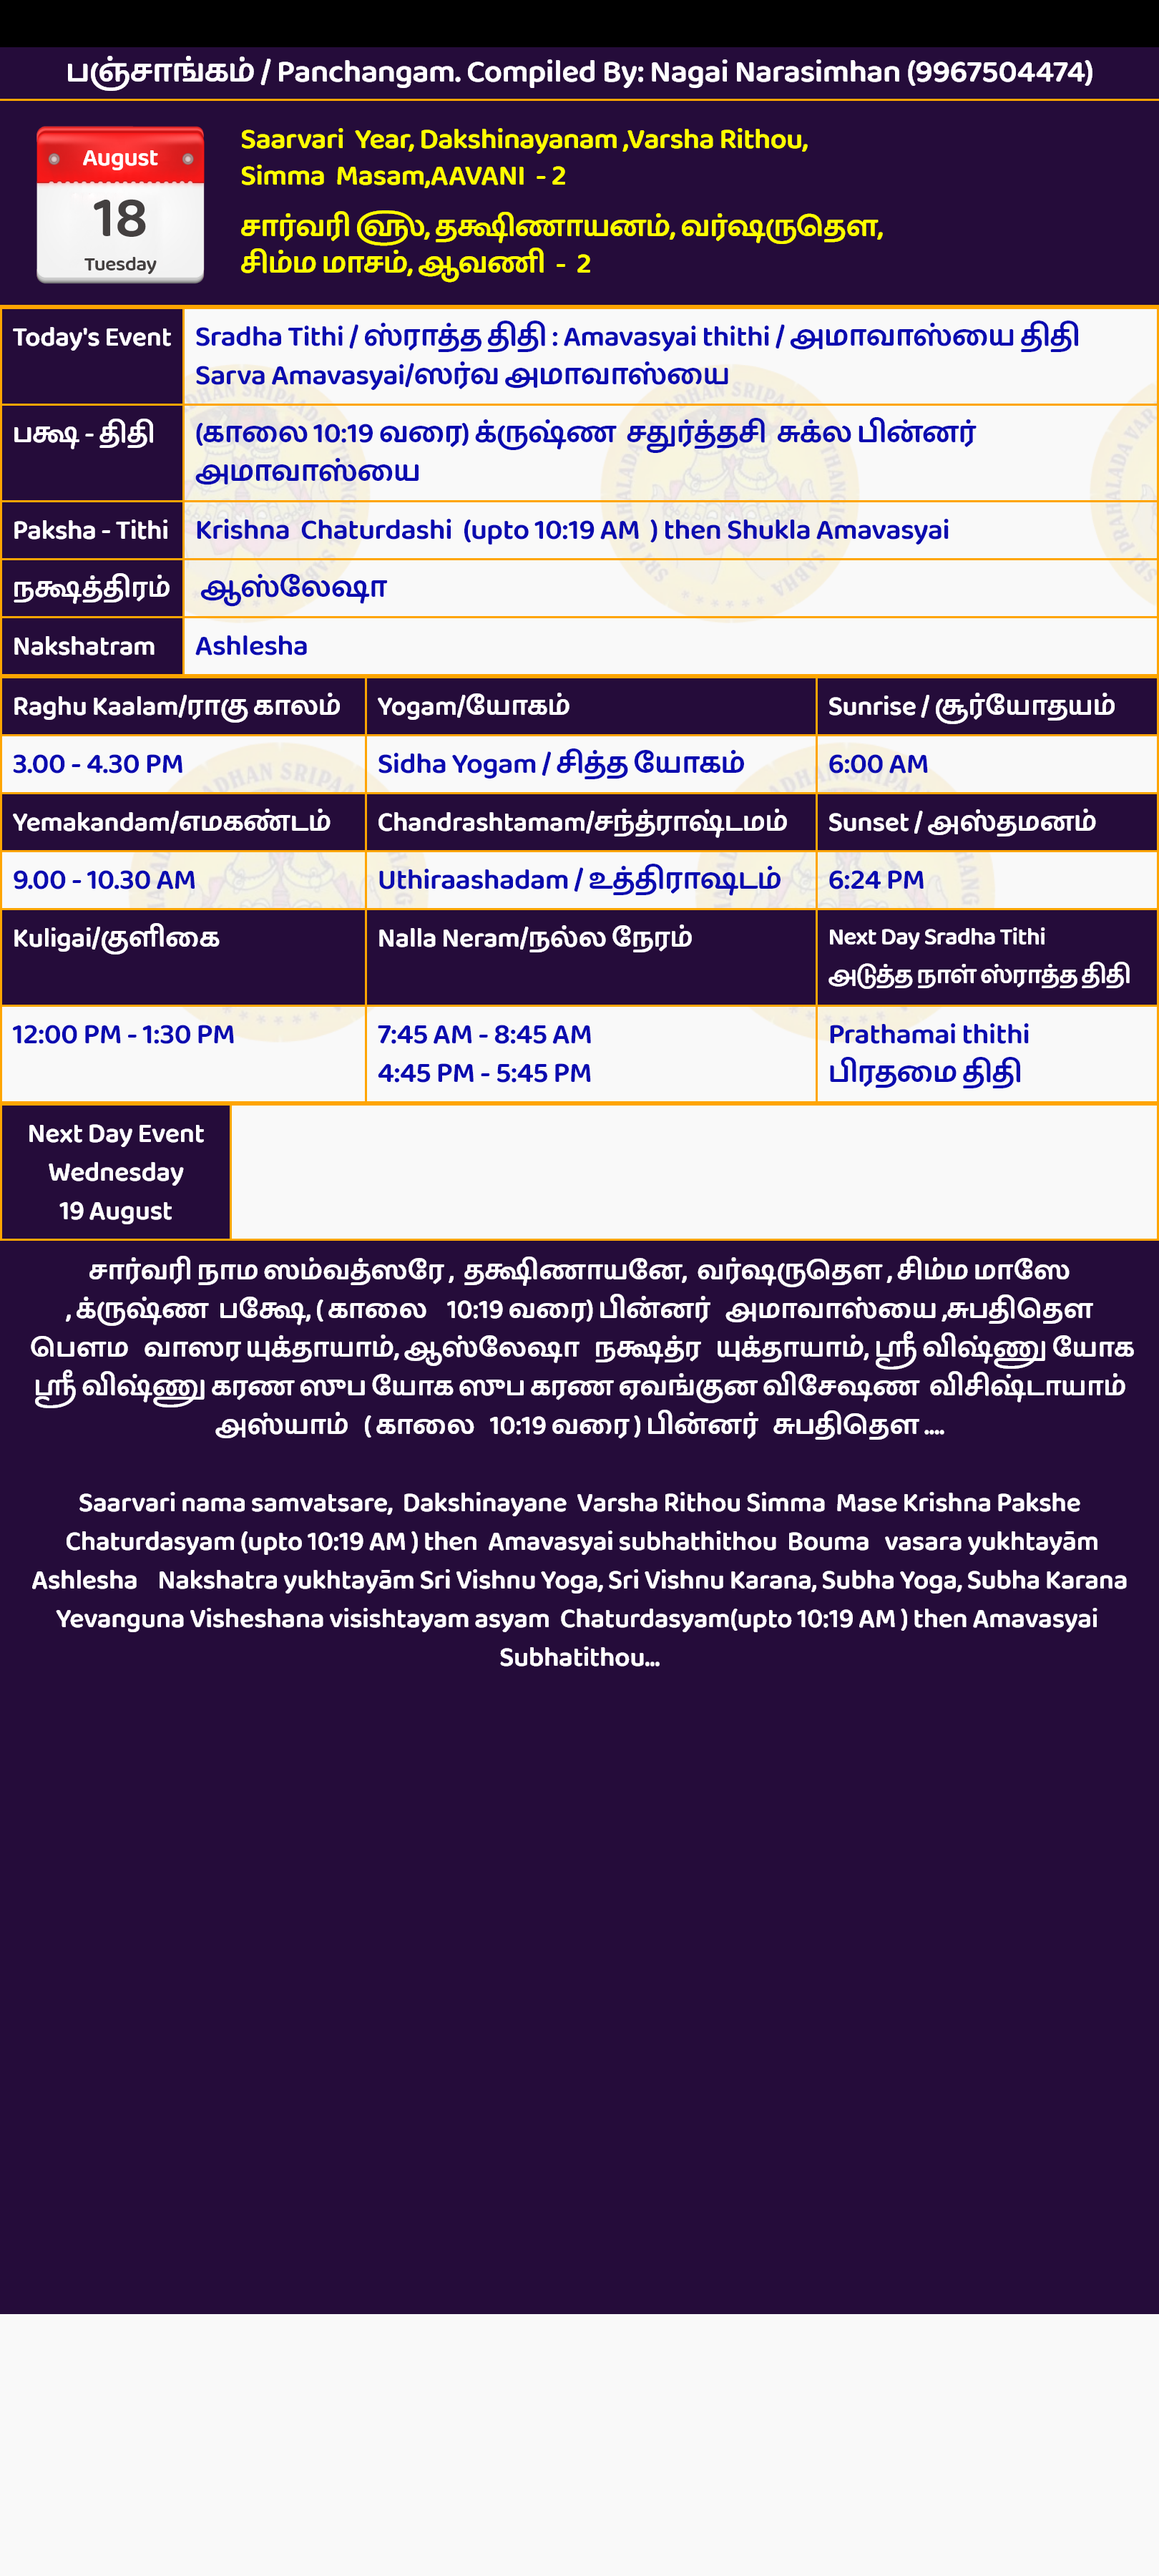
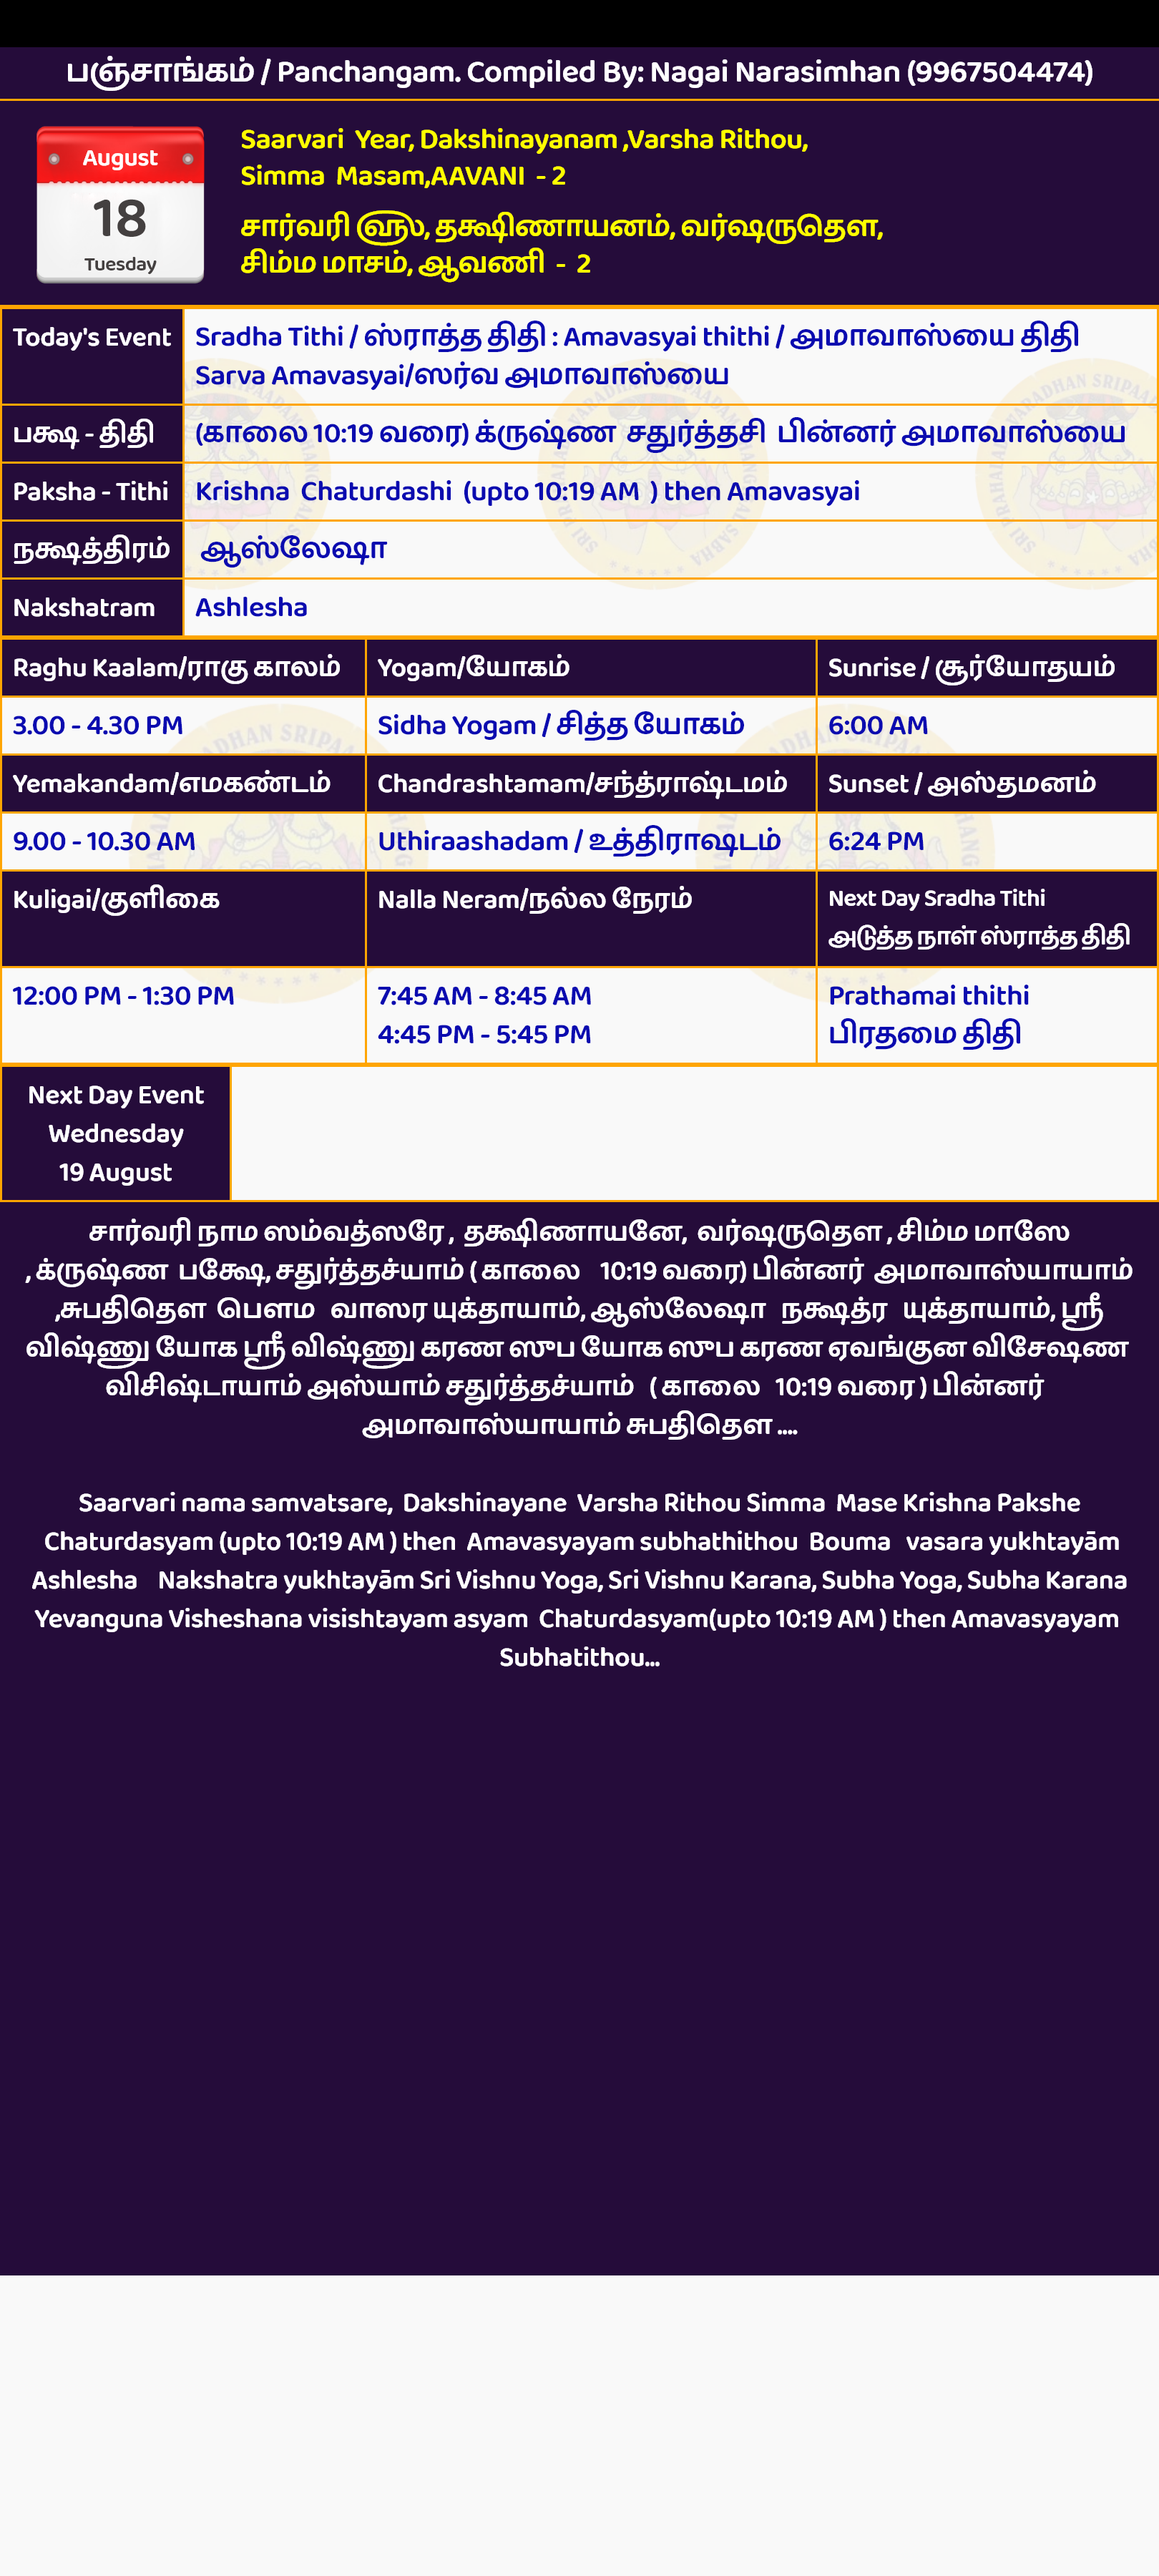
last

diff --git a/Client/src/layout/Mob.js b/Client/src/layout/Mob.js
@@ -29,10 +29,9 @@ const Mob = () => {
             console.log("Tithi",TithiCall[ind])
             setTithi(TithiCall[ind])
                 }
-                if(res.NextTithi && res.NextTithi.split(" ")[0] === t.split(" ")[0]){
+                if(res?.NextTithi && res?.NextTithi?.split(" ")[0] === t.split(" ")[0]){
                     setNtIndex(ind)
-                    
-            setnextTithi(res.NextTithi? TithiCall[ind]: "")
+            setnextTithi(res?.NextTithi? TithiCall[ind]: "anand")
                 }
             })
             const fmon = new Date(res.Dates).getDate()
@@ -223,10 +222,10 @@ return(
                   {datas.Ruthou?datas.Ruthou.split("/")[1].trim().split(" ")[0]: ""} ,&nbsp;
                    {datas.Mase? datas.Mase.split("/")[1].trim().split(" ")[0]:""} மாஸே ,&nbsp;
                     {datas.Pakshe? datas.Pakshe.split("/")[1].trim().split(" ")[0]:""}&nbsp;
-                 பக்ஷே,  {datas?.Tithi? datas?.Tithi.split("/")[3]: ""}  {datas?.Time?.split(" ")[1] === "AM" ? "( காலை " : ""}&nbsp;
+                 பக்ஷே,  {tithi? tithi.split("/")[3]: ""}  {datas?.Time?.split(" ")[1] === "AM" ? "( காலை " : ""}&nbsp;
                   {datas?.Time?.split(" ")[1] === "PM" ? "( மாலை " : ""}  &nbsp;
                    {datas?.Time ? datas?.Time?.split(" ")[0] + " வரை) பின்னர் " : ""}&nbsp;
-                    {datas?.NextTithi? ` ${datas?.NextTithi?.split("/")[1].split(" ")[1]}`: ""} ,சுபதிதௌ &nbsp;
+                   {nextTithi? nextTithi?.split("/")[3]:""} ,சுபதிதௌ &nbsp;
                     {datas?.Vasaram ? datas?.Vasaram?.split("/")[1].trim().split(" ")[0]: ""} &nbsp;
                  வாஸர யுக்தாயாம், {datas?.Nakshatram? datas?.Nakshatram?.split("/")[1].trim().split(' ')[0]: ""} &nbsp;
                    {datas.Time2 && datas.NextNakshatram && datas?.Time2.split(" ")[1] === "AM" ? "  (காலை " : ""} 
@@ -234,25 +233,25 @@ return(
                     {datas?.NextNakshatram && datas?.Time2?` ${datas.Time2?.split(" ")[0]} வரை ) பின்னர் `: ""} 
                      {datas?.NextNakshatram?` ${datas?.NextNakshatram.split("/")[1].trim().split(" ")[0]}`: ''} நக்ஷத்ர &nbsp;
                   யுக்தாயாம், ஸ்ரீ விஷ்ணு யோக ஸ்ரீ விஷ்ணு கரண ஸுப யோக ஸுப கரண ஏவங்குன விசேஷண&nbsp;
-                   விசிஷ்டாயாம் அஸ்யாம்  {datas?.Tithi? datas?.Tithi.split("/")[1].split(" ")[0]: ""} &nbsp;
+                   விசிஷ்டாயாம் அஸ்யாம்   {tithi? tithi.split("/")[3]: ""}  &nbsp;
                    {datas?.Time && datas?.NextTithi && datas?.Time?.split(" ")[1] === "AM" ? " ( காலை " : ""}&nbsp;
                    {datas?.Time?.split(" ")[1] === "PM" ? " ( மாலை" : ""}&nbsp;
                     {datas?.NextTithi? datas?.Time?.split(" ")[0] + " வரை ) பின்னர்" : ""}  &nbsp;
-                     {datas?.NextTithi? datas?.NextTithi.split("/")[1].split(" ")[0]: ""}   சுபதிதௌ ....<br /><br />
+                    {nextTithi? nextTithi?.split("/")[3]:""}  சுபதிதௌ ....<br /><br />
                    {datas.Note2? datas.Note2.split("/")[0]:"சார்வரி நாம ஸம்வத்சரே"}, &nbsp;
                    {datas.Ayanam?datas.Ayanam.split("/")[0]:"தக்ஷிணாயணே"}  &nbsp;
                    {datas.Ruthou?datas.Ruthou.split("/")[0].trim().split(" ")[0]: ""}  Rithou&nbsp; 
                    {datas.Mase? datas.Mase.split("/")[0].trim().split(" ")[0]:""}&nbsp;
                     Mase {datas.Pakshe? datas.Pakshe.split("/")[0].trim().split(" ")[0]:""} Pakshe &nbsp;
                     {tithi? tithi?.split("/")[2]: ""} {datas?.Time ? `(upto ${datas?.Time} )  then `: " "}  &nbsp;
-                    {datas?.NextTithi? datas?.NextTithi?.split("/")[0].split(" ")[0]: ""} subhathithou &nbsp; 
+                    {nextTithi? nextTithi?.split("/")[2]:""} subhathithou &nbsp; 
                     {datas.Vasaram ? datas.Vasaram.split("/")[0].trim().split(" ")[0]: ""} &nbsp;
                      vasara yukhtayām {datas.Nakshatram? datas?.Nakshatram?.split("/")[0].trim().split(' ')[0]: ""}&nbsp;
-                 {datas?.NextNakshatram && datas?.Time2?`(upto ${datas.Time2} ) then`: ""} &nbsp;
+                 {datas?.NextNakshatram && datas?.Time2?`(upto ${datas.Time2} ) then `: ""} 
                  {datas.NextNakshatram?datas.NextNakshatram.split("/")[0].trim().split(" ")[0]: ''} Nakshatra yukhtayām 
                  Sri Vishnu Yoga, Sri Vishnu Karana, Subha Yoga, Subha Karana Yevanguna Visheshana visishtayam asyam 
                  &nbsp;{tithi? tithi.split("/")[2]: ""} 
-                 {datas?.NextTithi && datas.Time ? `(upto ${datas?.Time} ) then `: ""} {datas?.NextTithi? datas?.NextTithi?.split("/")[0].split(" ")[0]: ""} 
+                 {datas?.NextTithi && datas.Time ? `(upto ${datas?.Time} ) then `: ""} {nextTithi? nextTithi?.split("/")[2]:""} 
                  &nbsp; Subhatithou...
                  </p>
 

diff --git a/Client/src/component/FormTable.js b/Client/src/component/FormTable.js
@@ -5,7 +5,7 @@ import { Link, Redirect } from 'react-router-dom';
 import Base from '../layout/Base';
 import { getALlUserForms, removeForm, downloadForm } from '../helper/AllHelp';
 import { FaDownload, FaEdit, FaTrash } from 'react-icons/fa'
-
+import "../App.css"
 const FormList = () => {
     const TextField = styled.input`
         height: 32px;
@@ -78,16 +78,16 @@ const columns = [
     selector: 'TamilMonth',
     sortable: true,
   },
-  {        cell: row => (<div style = {{width:"50px"}}>
-    <button id = {row._id} onClick = {() => downloadLogic(row._id)} className = "btn btn-success btn-sm text-center text-white">
+  {        cell: row => (<div className = "col-md-12" style = {{width:"400px"}}>
+    <button id = {row._id} onClick = {() => downloadLogic(row._id)} className = "btn fr btn-success btn-sm text-center text-white">
     <FaDownload />
   </button>
-<Link id = {row._id} className = "btn btn-info btn-sm text-center text-white" to = {`/form/edit/${row._id}`}>
+<Link id = {row._id} className = "btn btn-info btn-sm fr text-center text-white" to = {`/form/edit/${row._id}`}>
     <FaEdit />
   </Link>
   <button id = {row._id} onClick = {() => removeForm(row._id).then((res)=>{
   setReload(!reload)
-})} className = "btn btn-danger btn-sm text-center text-white">
+})} className = "btn btn-danger btn-sm fr text-center text-white">
   <FaTrash />
 
 </button></div>

diff --git a/Client/src/helper/WayCall.js b/Client/src/helper/WayCall.js
@@ -14,7 +14,7 @@ exports.TithiCall = [
     "Trayodasi thithi/திரயோதசி திதி/Trayodasyam/ திரயோதச்யாம்/12",
     "Chaturdashi thithi/சதுர்த்தசி திதி/Chaturdasyam/ சதுர்த்தச்யாம்/13",
     "Pournami thithi/பொளர்ணமி திதி/Pournamasyam/ பௌர்ணமாஸ்யாம்/14",
-    "Amavasai thithi/அமாவாஸ்யை திதி/Amavasyayam/ அமாவாஸ்யாயாம்/15"
+    "Amavasyai thithi/அமாவாஸ்யை திதி/Amavasyayam/ அமாவாஸ்யாயாம்/15"
 ]
 
 exports.AyanamCall = [

diff --git a/Controller/Scraping2.js b/Controller/Scraping2.js
@@ -72,7 +72,7 @@ exports.getImage = (req,res) => {
       '--disable-setuid-sandbox'
     ]
   });
-  const desiredUrl = `https://nagai-panchangam.herokuapp.com/#mob/${formId}`
+  const desiredUrl = `http://nagai-panchangam.herokuapp.com/#mob/${formId}`
   const page = await browser.newPage();
   await page.setViewport({width: 540, height: 1200,
     deviceScaleFactor: 3});
